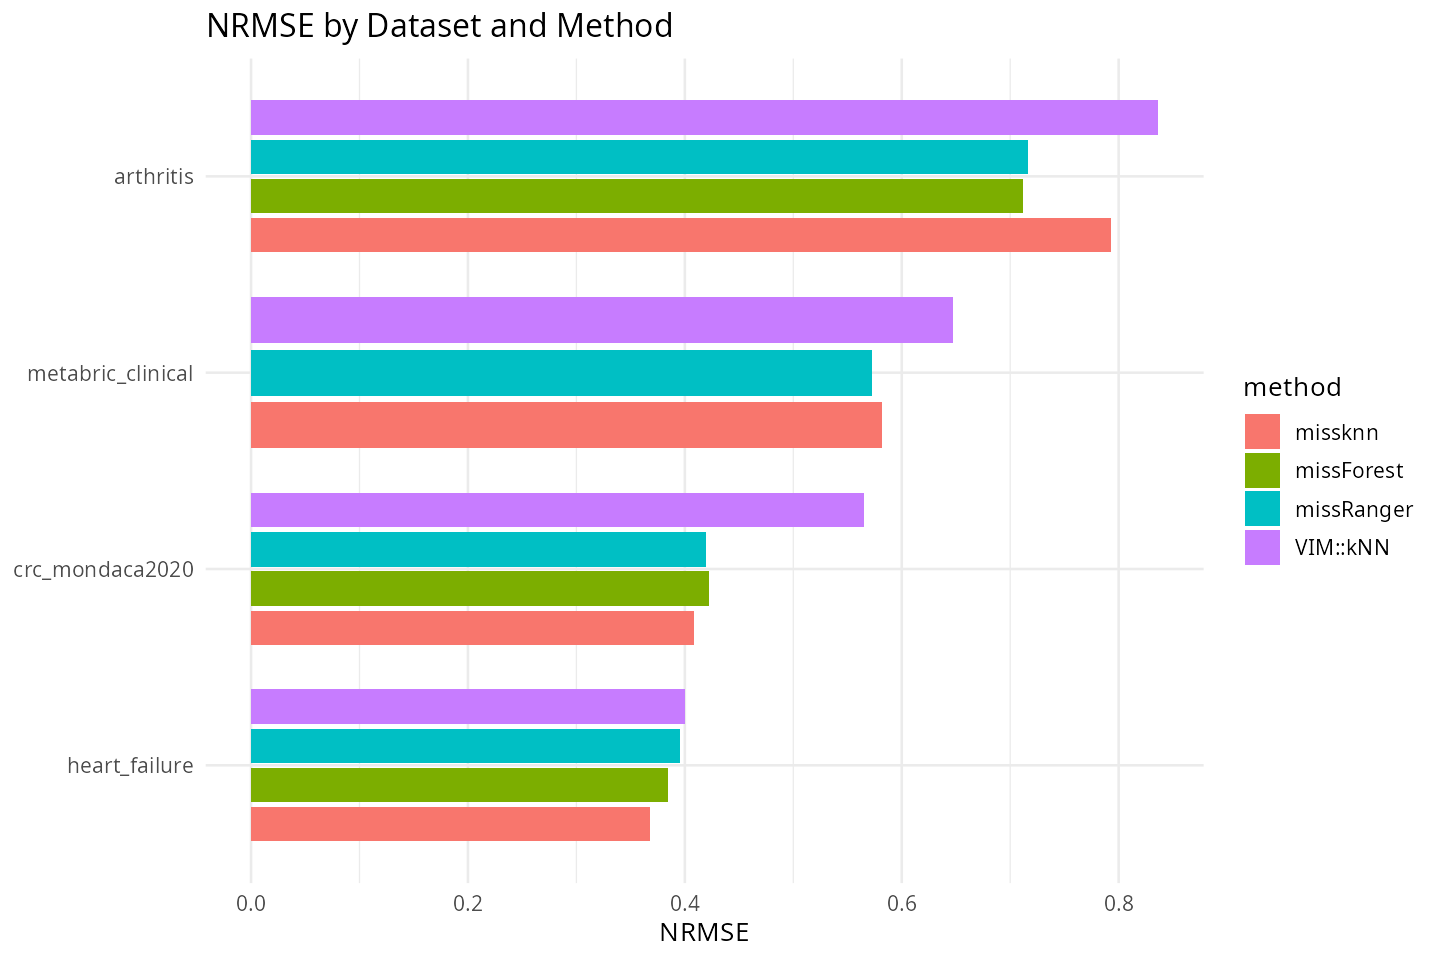
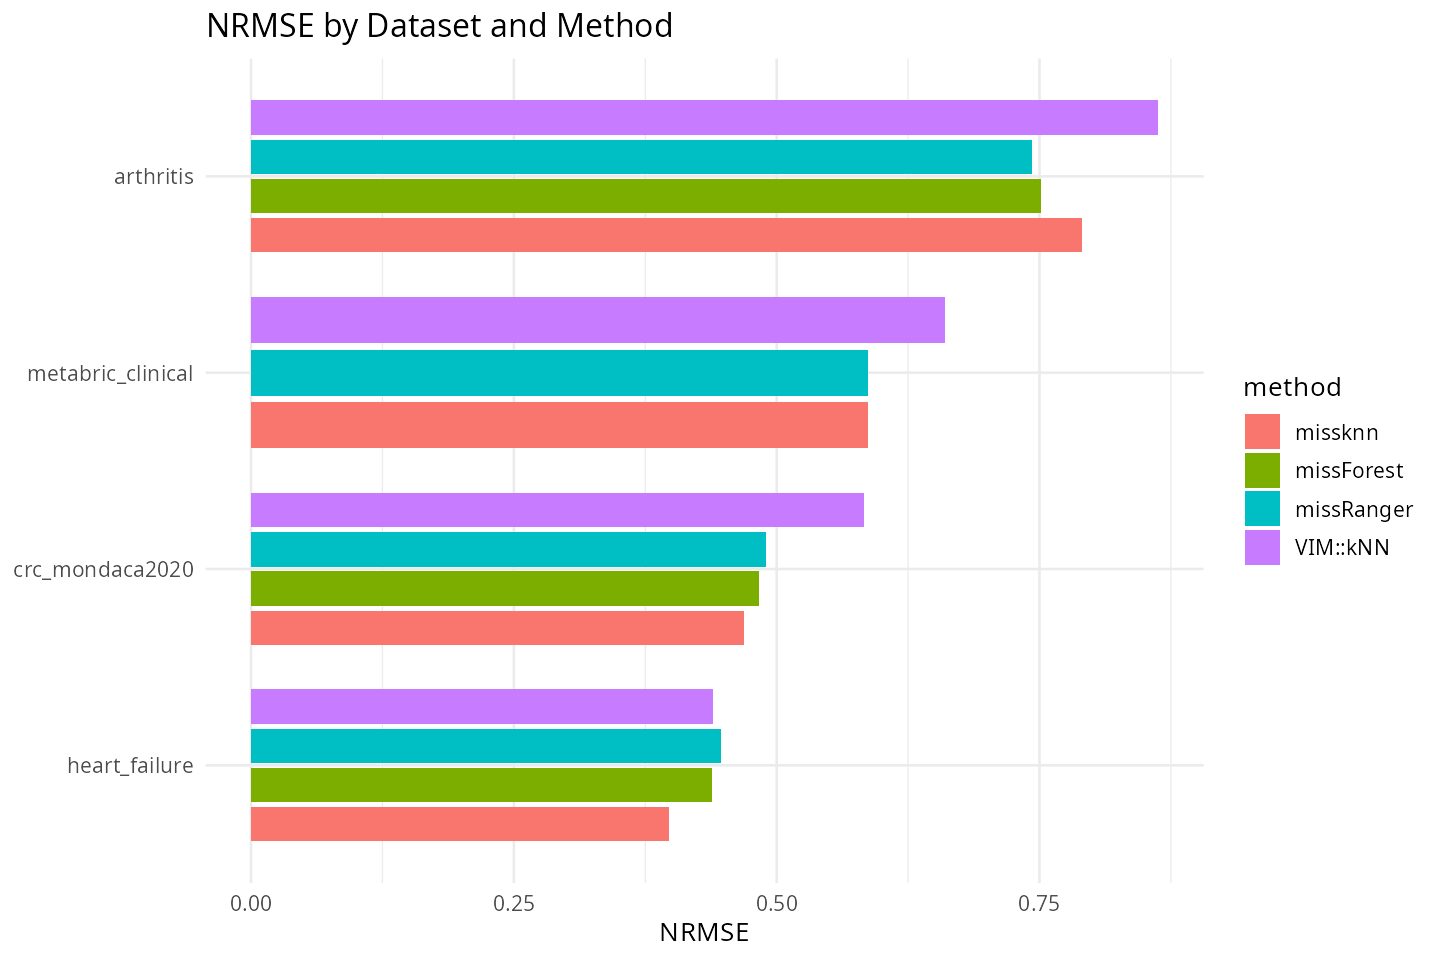
Run real-data benchmark at 30% MCAR
Matches the rate reported in the Bioinformatics manuscript.

diff --git a/inst/benchmark/output/real_data_benchmark_report.md b/inst/benchmark/output/real_data_benchmark_report.md
@@ -3,7 +3,7 @@
 Metrics follow Stekhoven & Buhlmann (2012): NRMSE for numeric variables
 and PFC (proportion falsely classified) for categorical variables, both
 pooled across every artificially-masked entry of that type rather than
-averaged per column first. 20% MCAR imposed on complete-case ground
+averaged per column first. 30% MCAR imposed on complete-case ground
 truth for each dataset.
 
 ## Dataset selection
@@ -26,33 +26,33 @@ scaling point.
 
 ## Main Results Table
 
-Table: Runtime, NRMSE, and PFC on real biomedical datasets (20% MCAR)
+Table: Runtime, NRMSE, and PFC on real biomedical datasets (30% MCAR)
 
 |dataset           |method     |    n|  p| runtime_sec|  nrmse|    pfc|
 |:-----------------|:----------|----:|--:|-----------:|------:|------:|
-|heart_failure     |missknn    |  299| 13|       0.015| 0.3675| 0.3869|
-|heart_failure     |missForest |  299| 13|       1.528| 0.3844| 0.4114|
-|heart_failure     |missRanger |  299| 13|       0.787| 0.3959| 0.3896|
-|heart_failure     |VIM::kNN   |  299| 13|       0.328| 0.4000| 0.4005|
-|crc_mondaca2020   |missknn    |  457| 11|       0.020| 0.4081| 0.4346|
-|crc_mondaca2020   |missForest |  457| 11|       4.151| 0.4220| 0.4191|
-|crc_mondaca2020   |missRanger |  457| 11|       1.292| 0.4199| 0.3969|
-|crc_mondaca2020   |VIM::kNN   |  457| 11|       0.507| 0.5651| 0.4435|
-|arthritis         |missknn    | 4856| 11|       0.127| 0.7928| 0.2302|
-|arthritis         |missForest | 4856| 11|      31.570| 0.7115| 0.2661|
-|arthritis         |missRanger | 4856| 11|       7.829| 0.7164| 0.2197|
-|arthritis         |VIM::kNN   | 4856| 11|      29.592| 0.8365| 0.2459|
-|metabric_clinical |missknn    | 1839| 11|       0.100| 0.5821| 0.2983|
+|heart_failure     |missknn    |  299| 13|       0.016| 0.3975| 0.3571|
+|heart_failure     |missForest |  299| 13|       1.762| 0.4385| 0.4135|
+|heart_failure     |missRanger |  299| 13|       0.397| 0.4466| 0.4229|
+|heart_failure     |VIM::kNN   |  299| 13|       0.409| 0.4394| 0.4342|
+|crc_mondaca2020   |missknn    |  457| 11|       0.017| 0.4693| 0.4109|
+|crc_mondaca2020   |missForest |  457| 11|       2.590| 0.4833| 0.4275|
+|crc_mondaca2020   |missRanger |  457| 11|       0.471| 0.4900| 0.4350|
+|crc_mondaca2020   |VIM::kNN   |  457| 11|       0.518| 0.5827| 0.4486|
+|arthritis         |missknn    | 4856| 11|       0.124| 0.7905| 0.2255|
+|arthritis         |missForest | 4856| 11|      31.120| 0.7517| 0.2678|
+|arthritis         |missRanger | 4856| 11|      11.212| 0.7431| 0.2212|
+|arthritis         |VIM::kNN   | 4856| 11|      37.407| 0.8630| 0.2462|
+|metabric_clinical |missknn    | 1839| 11|       0.074| 0.5873| 0.3192|
 |metabric_clinical |missForest | 1839| 11|          NA|     NA|     NA|
-|metabric_clinical |missRanger | 1839| 11|       5.120| 0.5725| 0.2898|
-|metabric_clinical |VIM::kNN   | 1839| 11|       4.857| 0.6473| 0.3362|
+|metabric_clinical |missRanger | 1839| 11|       4.986| 0.5872| 0.3199|
+|metabric_clinical |VIM::kNN   | 1839| 11|       4.912| 0.6605| 0.3448|
 
 ## Real-Data Scaling Point (n = 100,000)
 
 Table: diabetes_prediction (n = 100,000): missForest excluded as computationally intractable at this n
 
-|dataset             |method     |     n|  p| runtime_sec|  nrmse| pfc|
-|:-------------------|:----------|-----:|--:|-----------:|------:|---:|
-|diabetes_prediction |missknn    | 100,000|  9|      22.563| 0.3471|  NA|
-|diabetes_prediction |missRanger | 100,000|  9|     155.830| 0.3616|  NA|
+|dataset             |method     |n       |  p| runtime_sec|  nrmse| pfc|
+|:-------------------|:----------|:-------|--:|-----------:|------:|---:|
+|diabetes_prediction |missknn    |100,000 |  9|      21.656| 0.3569|  NA|
+|diabetes_prediction |missRanger |100,000 |  9|     392.742| 0.3754|  NA|
 
